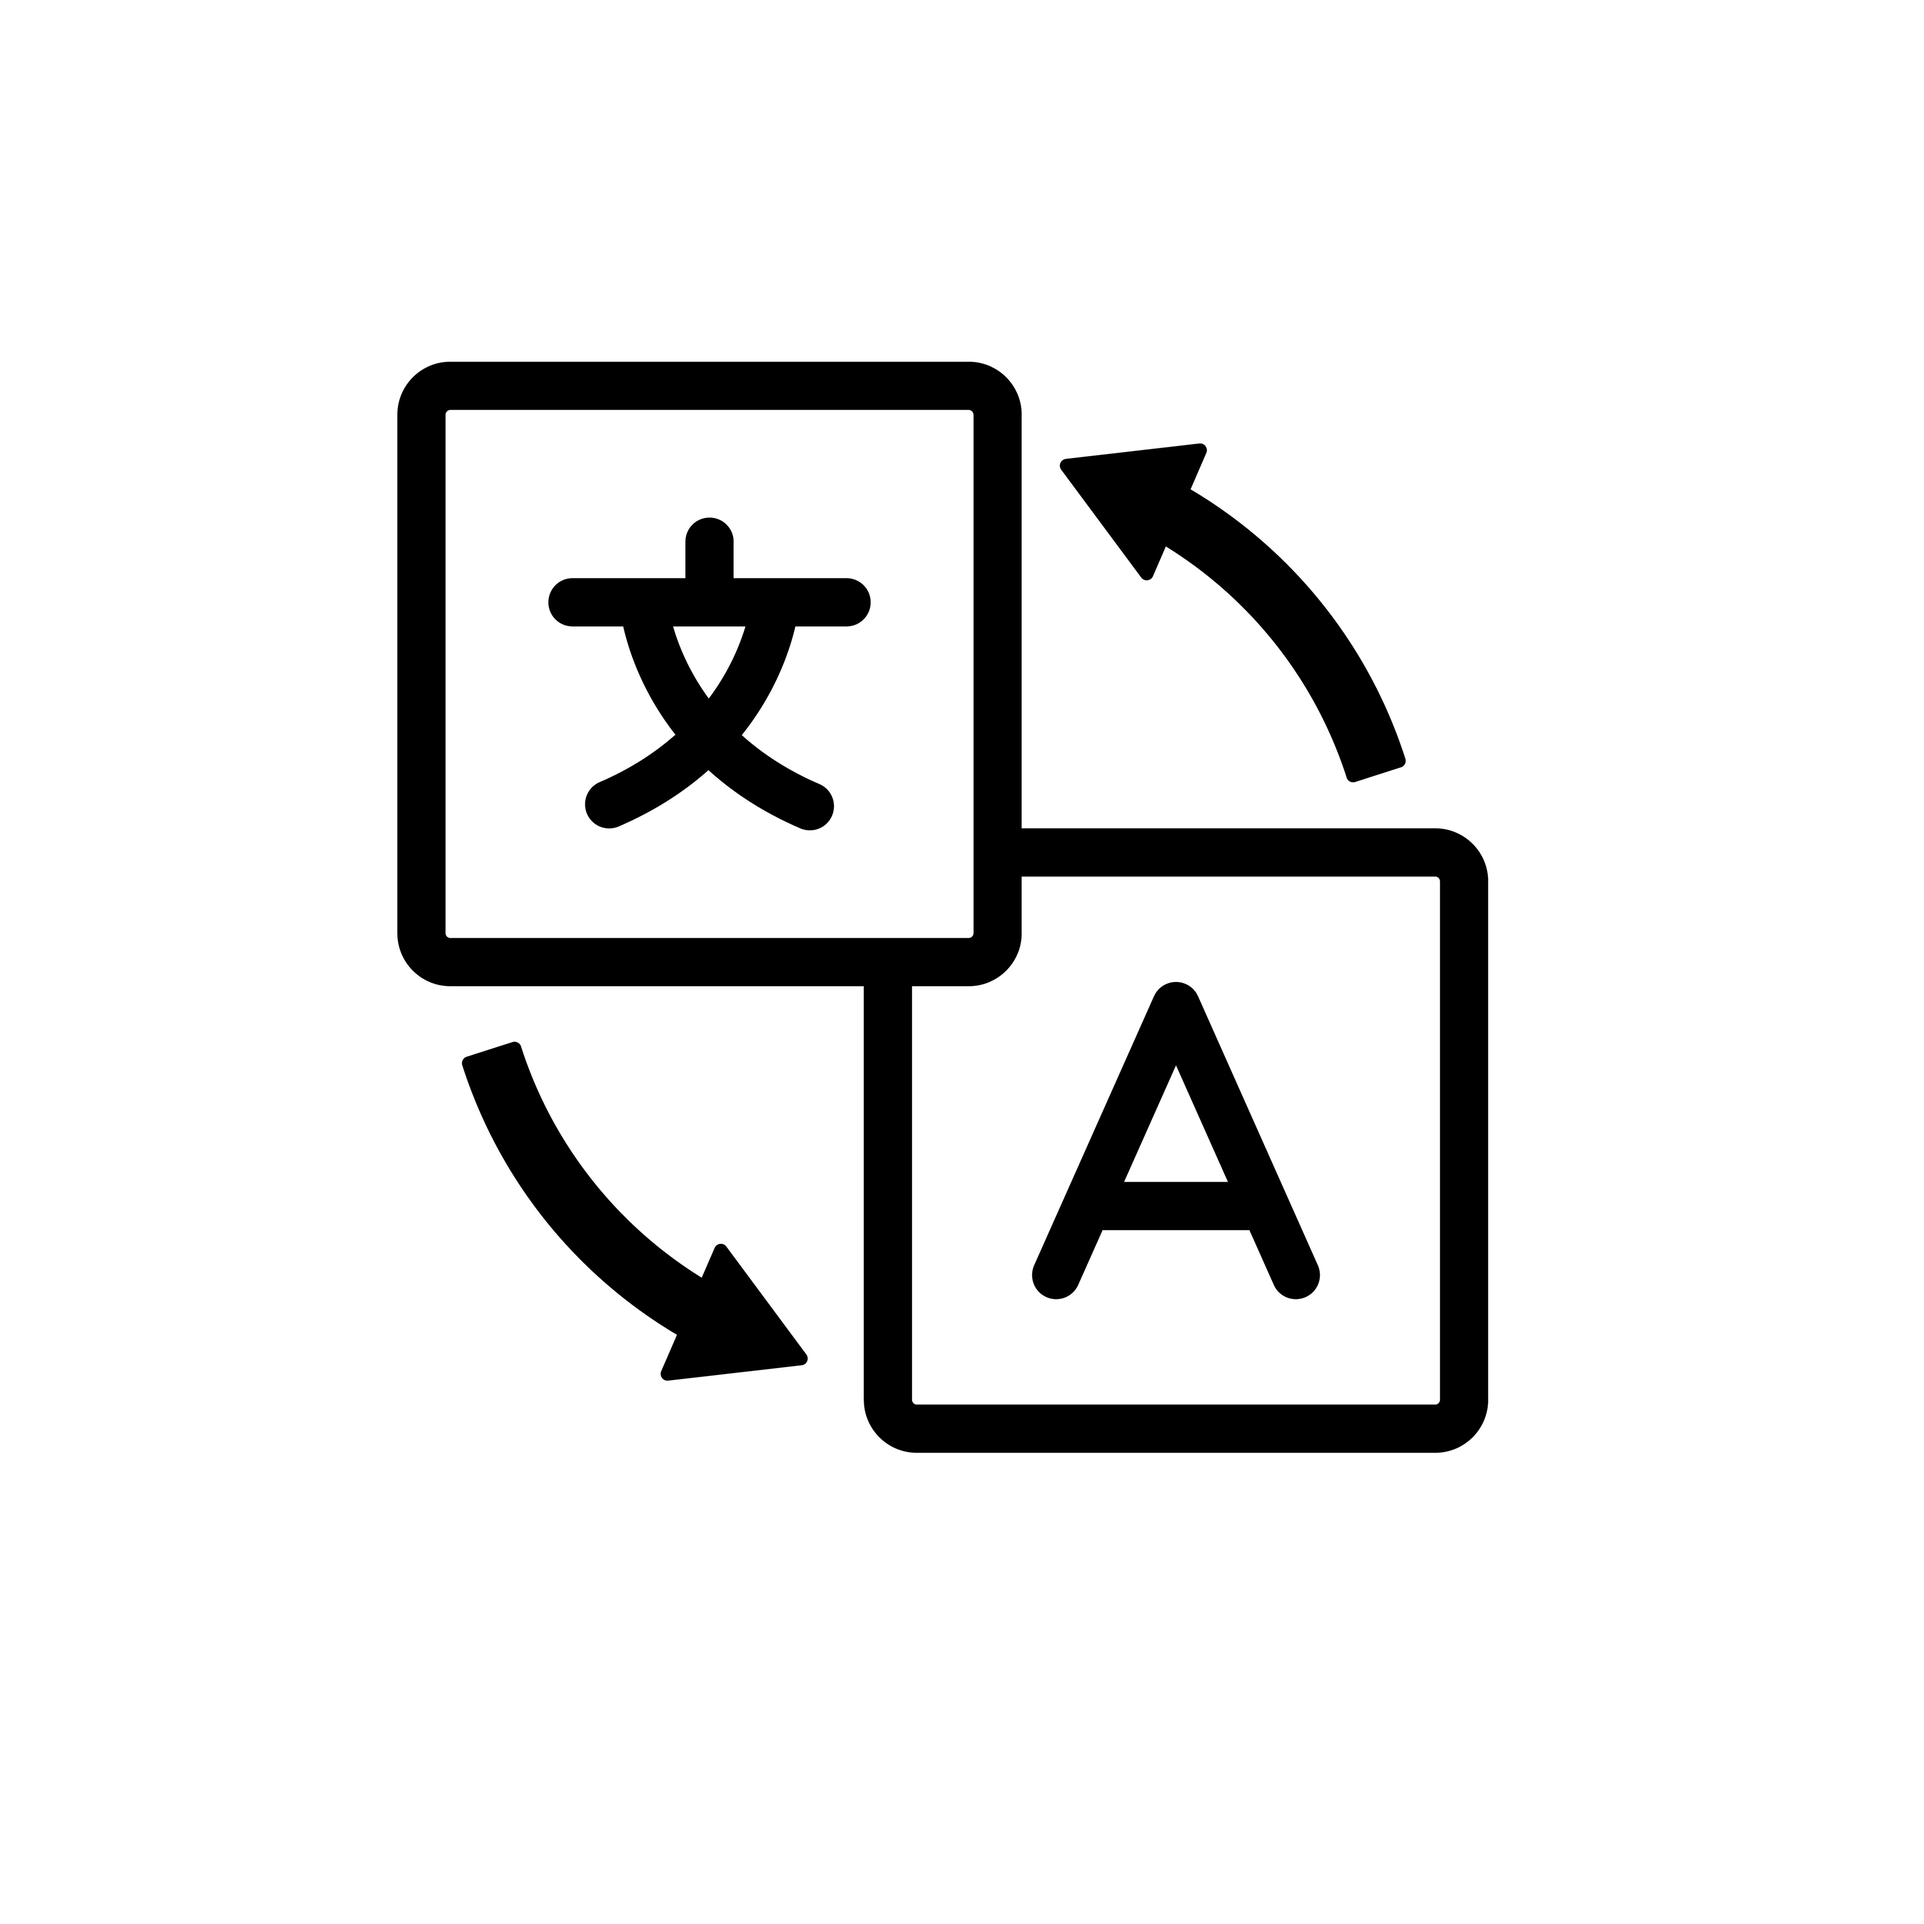
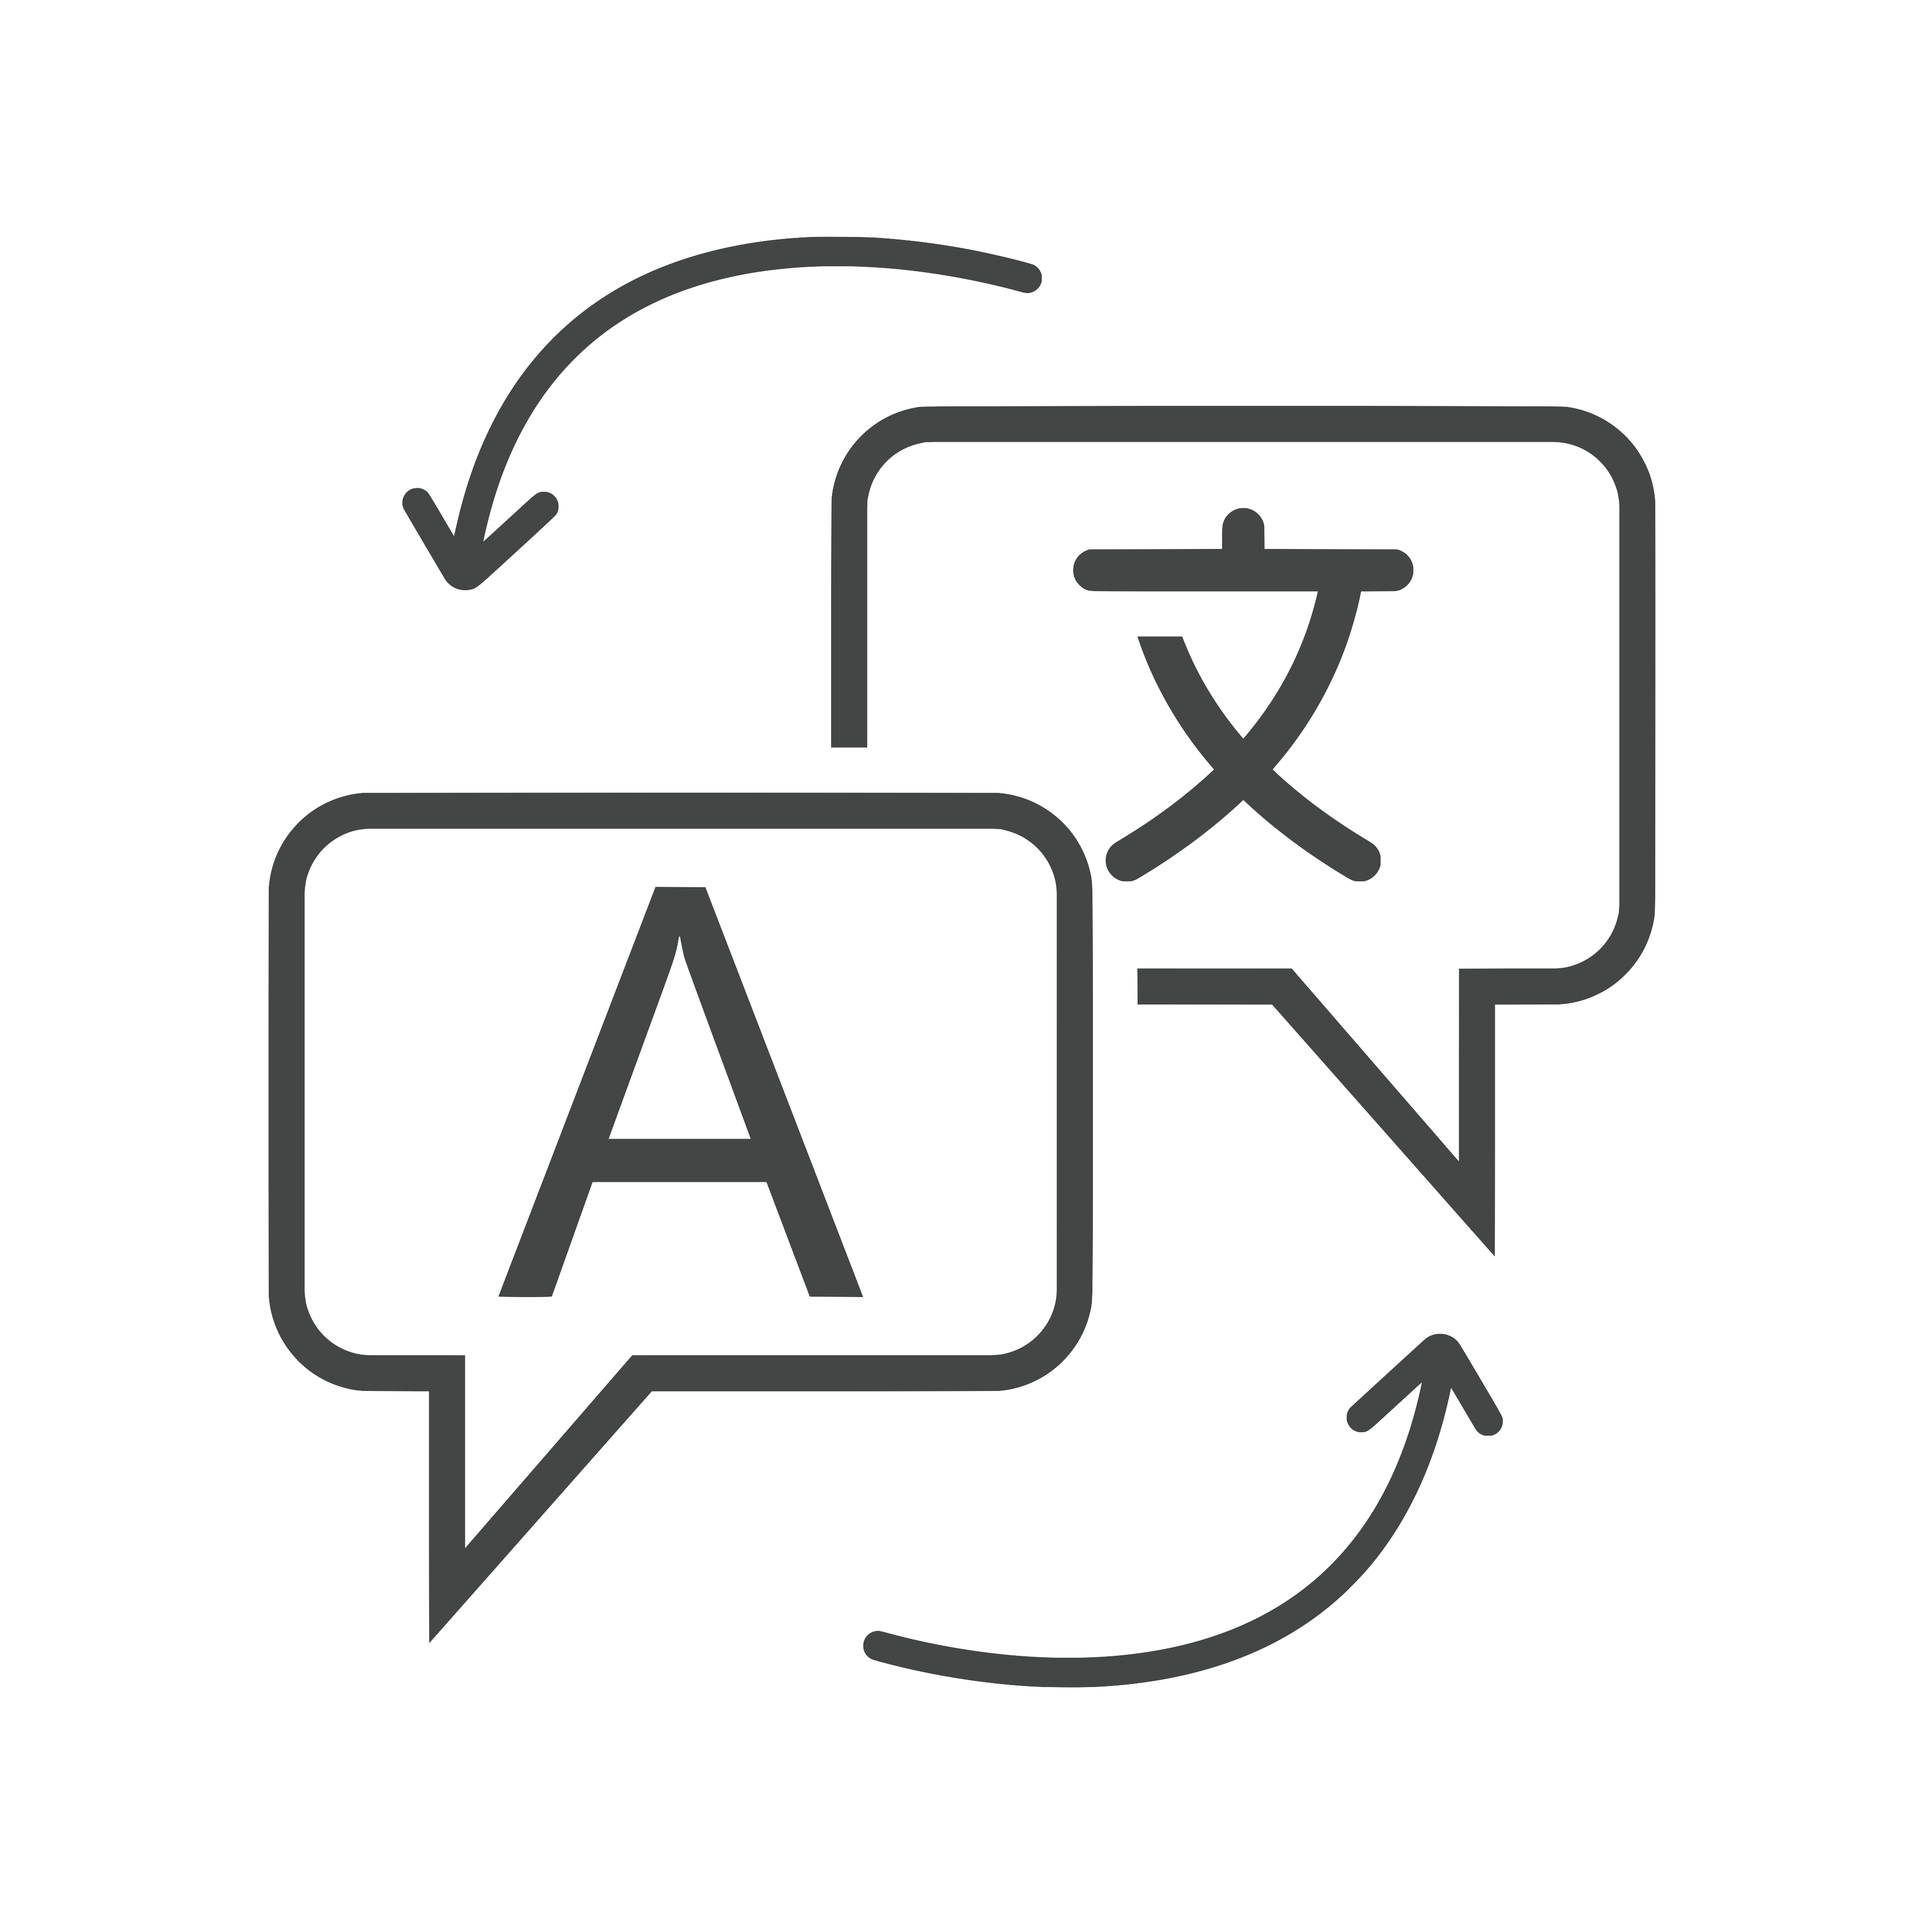
Adding changes to index and translate feature

Changed region(s): [[0.125, 0.125, 0.8748, 0.8748]]

diff --git a/css/styles.css b/css/styles.css
@@ -13,20 +13,18 @@ html {
   /* putting h1 and image beside each other */
   display: flex;
   font-size: 32px;
-  margin-left: 2em;
+  color: rgb(0, 76, 0);
+  text-align: center;
   align-items: center;
 }
 
 .header img {
-  width: 450px;
-}
-
-.header_img {
-  padding-top: 100px;
+  width: 550px;
+  padding-top: 80px;
 }
 
 .button_home {
-  font-size: 18px;
+  font-size: 25px;
 }
 
 main {
@@ -38,6 +36,7 @@ main {
 header {
   text-align: center;
   padding-top: 100px;
+  font-family: "Alumni Sans Pinstripe", sans-serif;
 }
 
 .header h1 {
@@ -46,8 +45,17 @@ header {
   font-family: "Alumni Sans Pinstripe", sans-serif;
 }
 
-p.intro {
-  text-align: left;
+.intro p {
+  max-width: 900px;
+  text-align: center;
+  margin: 1em auto 3em;
+  font-size: 20px;
+  font-family: "Segoe UI", Tahoma, Geneva, Verdana, sans-serif;
+}
+
+.intro_img {
+  max-width: 1050px;
+  margin: 9em auto 0;
 }
 
 article {
@@ -58,16 +66,6 @@ article {
   position: relative;
   max-width: 700px;
   margin: 3em auto;
-}
-
-.intro p {
-  max-width: 500px;
-  text-align: center;
-  margin: 4em auto;
-}
-
-li span {
-  text-decoration: underline;
 }
 
 .proj_container,
@@ -334,6 +332,7 @@ input[type="submit"] {
   border: 1px solid grey;
   background-color: rgba(128, 128, 128, 0.156);
   border-radius: 5px;
+  margin-top: 10px;
   padding: 10px;
   display: inline-block;
   transition: transform 0.3s ease-in-out;
@@ -358,7 +357,8 @@ input[type="submit"]:hover {
   width: 80px;
   cursor: pointer;
   transition: transform 0.3s ease-in-out;
-  box-shadow: 0 4px 8px rgba(0, 0, 0, 0.1);
+  border-radius: 15px;
+  background-color: #888888ab;
 }
 
 .translate-box {
@@ -508,6 +508,10 @@ nav ul {
   display: flex;
   width: 100%;
   justify-content: flex-end;
+}
+
+li span {
+  text-decoration: underline;
 }
 
 nav li {

diff --git a/index.php b/index.php
@@ -104,20 +104,19 @@ $villages = [
                 <h1>
                     Aldeas Connect, <br>
                     The Connection and Future of Smart Villages <br>
-                    <a class="button_home" href="project.php">Learn More About Aldeas Inteligentes IU</a>
+                    <a class="button_home" href="project.php">Learn More</a>
                 </h1>
             </div>
-            <div class="header_img">
-                <img src="img/home.jpeg" alt="home">
-            </div>
+            <img src="img/home.jpeg" alt="home">
         </div>
         <div class="intro">
+            <img class='intro_img' src="img/laptops.jpeg" alt="utlizing_wifi">
             <p>
                 Aldeas Inteligentes is a transformative initiative by the Mexican Federal Government aimed at providing digital access to rural and isolated communities across Mexico. 
                 By connecting 83 communities with wireless internet, offering STEM training, and supporting community development projects, Aldeas Inteligentes is enhancing education, commerce, health, and overall welfare in these communitites.
                 Our information system will change how rural communities track progress, showcase their achievements, and connect with supporters.
-                From improving education and healthcare to boosting local commerce, we're creating a platform that helps amplify the voices and aspirations of Mexico's underrated regions.
-                <a class="button" href="investor.php">View Community Projects</a>
+                From improving education and healthcare to boosting local commerce, we're creating a platform that helps amplify the voices and aspirations of Mexico's underrated regions. <br>
+                <a class="button" href="investor.php">View Projects</a>
             </p>
         </div>
 
@@ -263,7 +262,7 @@ $villages = [
         </script>
         <div class="translate-container">
             <div id="google_translate_element" class="translate-box"></div>
-            <img src="img/translate_icon.jpeg" alt="Translate" class="translate-icon">
+            <img src="img/translate_icon.png" alt="Translate" class="translate-icon">
         </div>
     </main>
     <?php include 'includes/footer.php'; ?>
